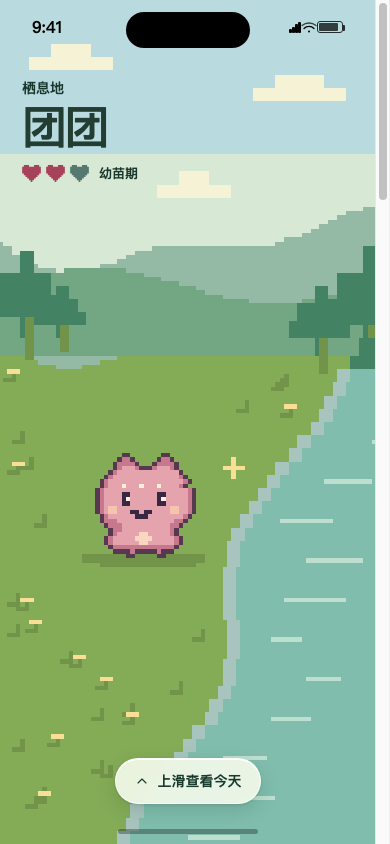
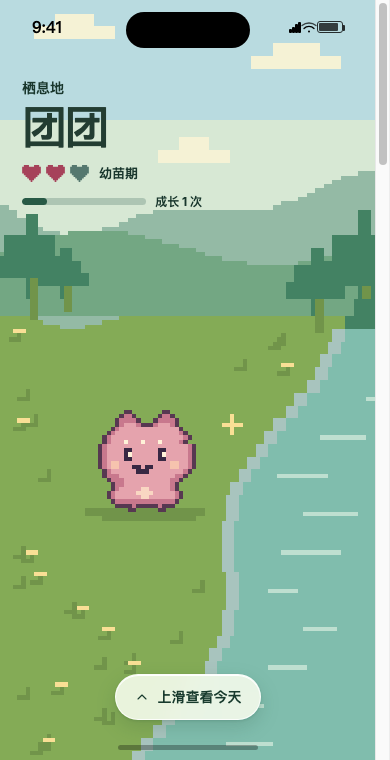
Show growth progress in the full-screen habitat

diff --git a/design-demos/ios-prototype.html b/design-demos/ios-prototype.html
@@ -563,6 +563,13 @@ a { color: inherit; }
 }
 .habitat-entry-status { display: flex; align-items: center; gap: 10px; font-size: 13px; font-weight: 680; }
 .habitat-entry-status .empty { color: #55786f; }
+.habitat-entry-header .growth {
+  width: 180px;
+  margin-top: 11px;
+  padding-inline: 0;
+}
+.habitat-entry-header .growth-bar { background: #4c75664d; }
+.habitat-entry-header .growth span { color: inherit; font-weight: 650; }
 .habitat-entry-header .pet-born {
   margin-top: 8px;
   color: #324e42;
@@ -1587,6 +1594,7 @@ function createPhone(initial) {
         <p>${petTab ? '我的宠物' : '栖息地'}</p><h2>${name}</h2>
         <div class="habitat-entry-status">${pet ? lives : ''}<span>${stage}</span></div>
         ${petTab && pet ? `<p class="pet-born">领养于 ${dateLabel(pet.born)}</p>` : ''}
+        ${!petTab && pet ? petGrowth(count) : ''}
       </header>
       ${petTab ? `<section class="pet-scene-panel" aria-label="成长与血量">
         <h3>成长与血量</h3>

diff --git a/design-demos/dir-1.html b/design-demos/dir-1.html
@@ -1177,6 +1177,7 @@ function createPhone(initial) {
         <p>${petTab ? '我的宠物' : '栖息地'}</p><h2>${name}</h2>
         <div class="habitat-entry-status">${pet ? lives : ''}<span>${stage}</span></div>
         ${petTab && pet ? `<p class="pet-born">领养于 ${dateLabel(pet.born)}</p>` : ''}
+        ${!petTab && pet ? petGrowth(count) : ''}
       </header>
       ${petTab ? `<section class="pet-scene-panel" aria-label="成长与血量">
         <h3>成长与血量</h3>

diff --git a/design-demos/dir-2.html b/design-demos/dir-2.html
@@ -1177,6 +1177,7 @@ function createPhone(initial) {
         <p>${petTab ? '我的宠物' : '栖息地'}</p><h2>${name}</h2>
         <div class="habitat-entry-status">${pet ? lives : ''}<span>${stage}</span></div>
         ${petTab && pet ? `<p class="pet-born">领养于 ${dateLabel(pet.born)}</p>` : ''}
+        ${!petTab && pet ? petGrowth(count) : ''}
       </header>
       ${petTab ? `<section class="pet-scene-panel" aria-label="成长与血量">
         <h3>成长与血量</h3>

diff --git a/design-demos/dir-3.html b/design-demos/dir-3.html
@@ -1177,6 +1177,7 @@ function createPhone(initial) {
         <p>${petTab ? '我的宠物' : '栖息地'}</p><h2>${name}</h2>
         <div class="habitat-entry-status">${pet ? lives : ''}<span>${stage}</span></div>
         ${petTab && pet ? `<p class="pet-born">领养于 ${dateLabel(pet.born)}</p>` : ''}
+        ${!petTab && pet ? petGrowth(count) : ''}
       </header>
       ${petTab ? `<section class="pet-scene-panel" aria-label="成长与血量">
         <h3>成长与血量</h3>

diff --git a/design-demos/src/app.js b/design-demos/src/app.js
@@ -118,6 +118,7 @@ function createPhone(initial) {
         <p>${petTab ? '我的宠物' : '栖息地'}</p><h2>${name}</h2>
         <div class="habitat-entry-status">${pet ? lives : ''}<span>${stage}</span></div>
         ${petTab && pet ? `<p class="pet-born">领养于 ${dateLabel(pet.born)}</p>` : ''}
+        ${!petTab && pet ? petGrowth(count) : ''}
       </header>
       ${petTab ? `<section class="pet-scene-panel" aria-label="成长与血量">
         <h3>成长与血量</h3>

diff --git a/design-demos/src/glass.css b/design-demos/src/glass.css
@@ -179,6 +179,13 @@
 }
 .habitat-entry-status { display: flex; align-items: center; gap: 10px; font-size: 13px; font-weight: 680; }
 .habitat-entry-status .empty { color: #55786f; }
+.habitat-entry-header .growth {
+  width: 180px;
+  margin-top: 11px;
+  padding-inline: 0;
+}
+.habitat-entry-header .growth-bar { background: #4c75664d; }
+.habitat-entry-header .growth span { color: inherit; font-weight: 650; }
 .habitat-entry-header .pet-born {
   margin-top: 8px;
   color: #324e42;
